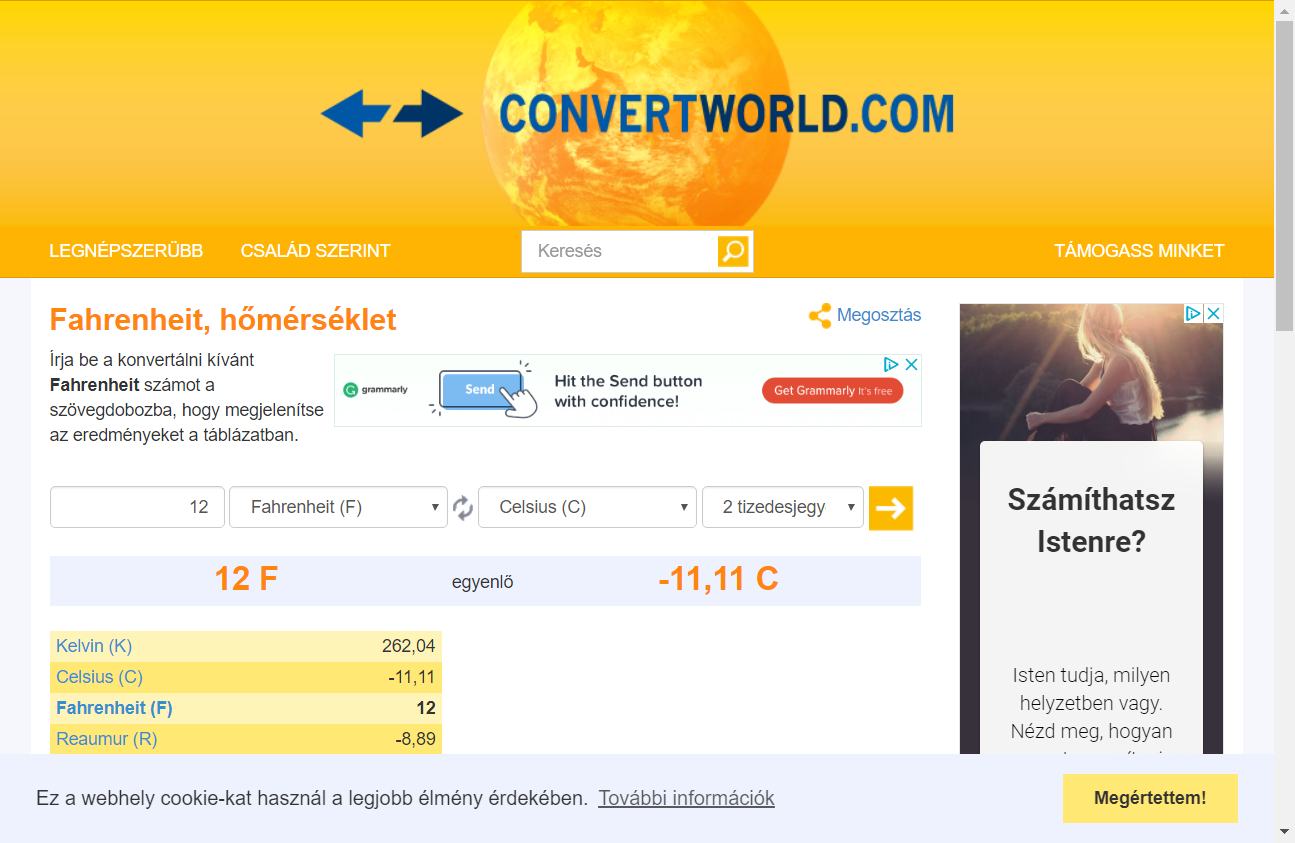
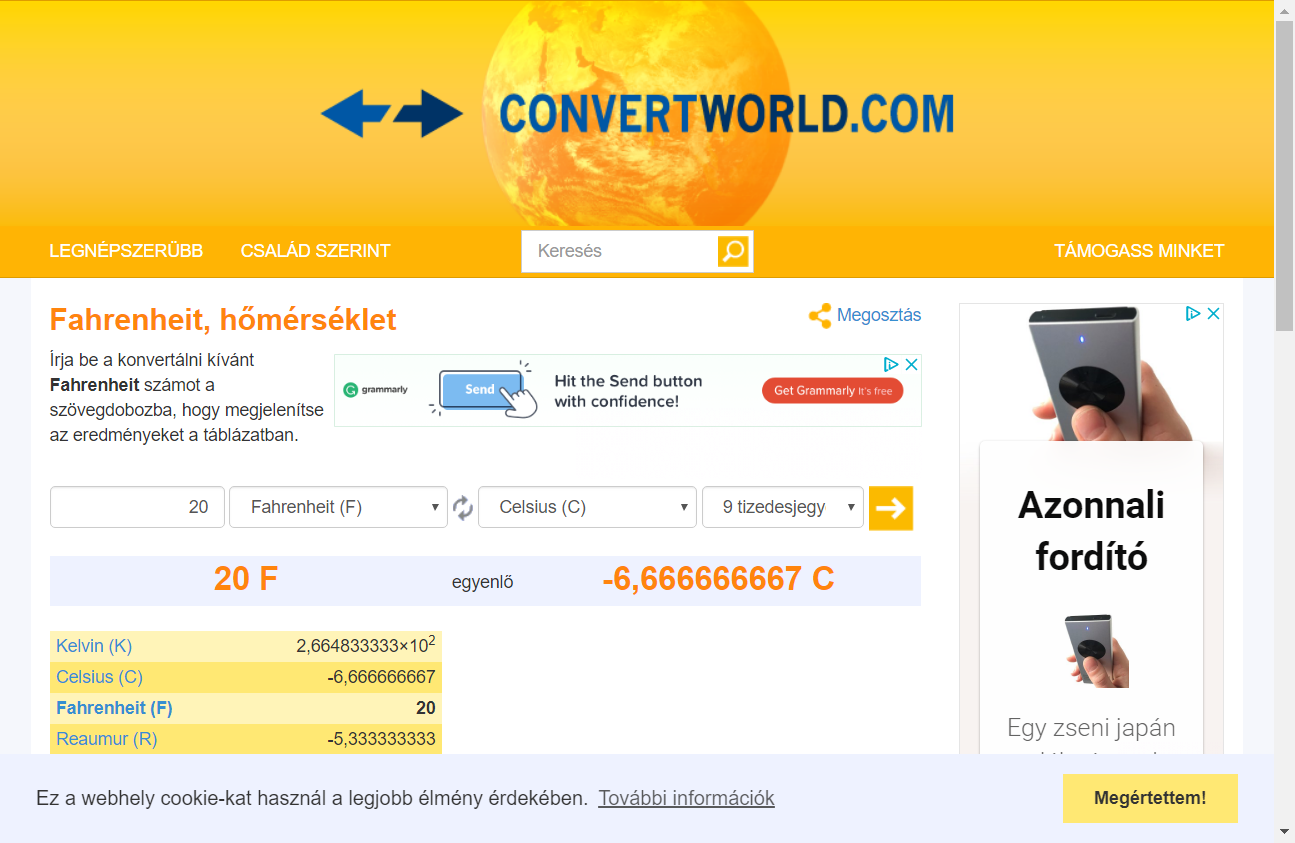
fc-javítás

diff --git a/fcconverter.py b/fcconverter.py
@@ -6,13 +6,29 @@ driver.get("https://www.convertworld.com/hu/homerseklet/fahrenheit.html")
 
 fahrenheit = input("A fahrenheit értéke: ")
 driver.find_element(By.NAME, "amount").send_keys(fahrenheit)
+decimals= input("Hány tizedesre (1-10): ")
+driver.find_element(By.NAME, "decimals").click()
+dropdown = driver.find_element(By.NAME, "decimals")
+dropdown.find_element(By.XPATH, "//option[. = '" + decimals + " tizedesjegyek száma" + "']").click()
+driver.find_element(By.NAME, "decimals").click()
+# decimals = driver.find_element(By.CSS_SELECTOR, "#conv_temperature_ext > p:nth-child(2) > select.form-control.extended-decimals > option[selected='"+"selected"+"']").get_attribute("value")
 driver.find_element(By.CLASS_NAME, "ok").click()
 f = driver.find_element(By.ID, "result-from").text
 web_text = driver.find_element(By.ID, "result-equals").text
 c = driver.find_element(By.XPATH, "//*[@id='result-to']/b").text
-result = f + " " + web_text + " " + c
+
+print(decimals)
+decimals_int = int(decimals)
+c_withoutC = c[:-2]
+c_withoutC = c_withoutC .replace(',', '.')
+print(c_withoutC)
+c_float = float(c_withoutC)
+result = f + " " + web_text + " " + str(c_float) + " C"
+celsius = round((float(fahrenheit) - 32)/1.8, decimals_int)
+print(celsius)
+result_text = fahrenheit + " F egyenlő " + str(celsius) + " C"
 print(result)
-# assert result == "15 F egyenlő -9,44 C"
+assert result == result_text
 driver.save_screenshot("fc_result.png")
 
 
